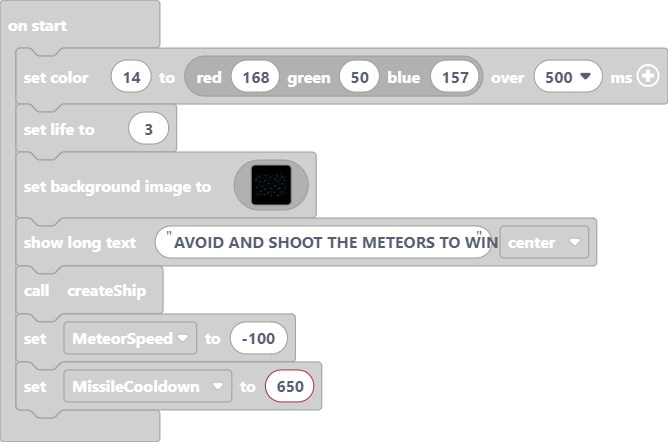
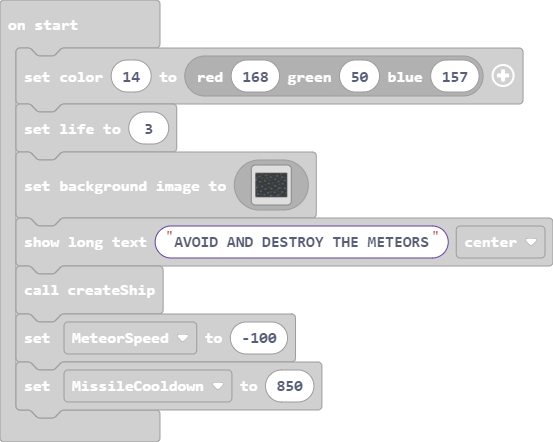
Update main.blocks, main.ts

diff --git a/main.ts b/main.ts
@@ -43,7 +43,7 @@ let MissileCooldown = 0
 color.setColor(14, color.rgb(168, 50, 157))
 info.setLife(3)
 scene.setBackgroundImage(assets.image`GalaxyBackgroundOne`)
-game.showLongText("AVOID AND SHOOT THE METEORS TO WIN", DialogLayout.Center)
+game.showLongText("AVOID AND DESTROY THE METEORS", DialogLayout.Center)
 createShip()
 let MeteorSpeed = -100
 MissileCooldown = 850
